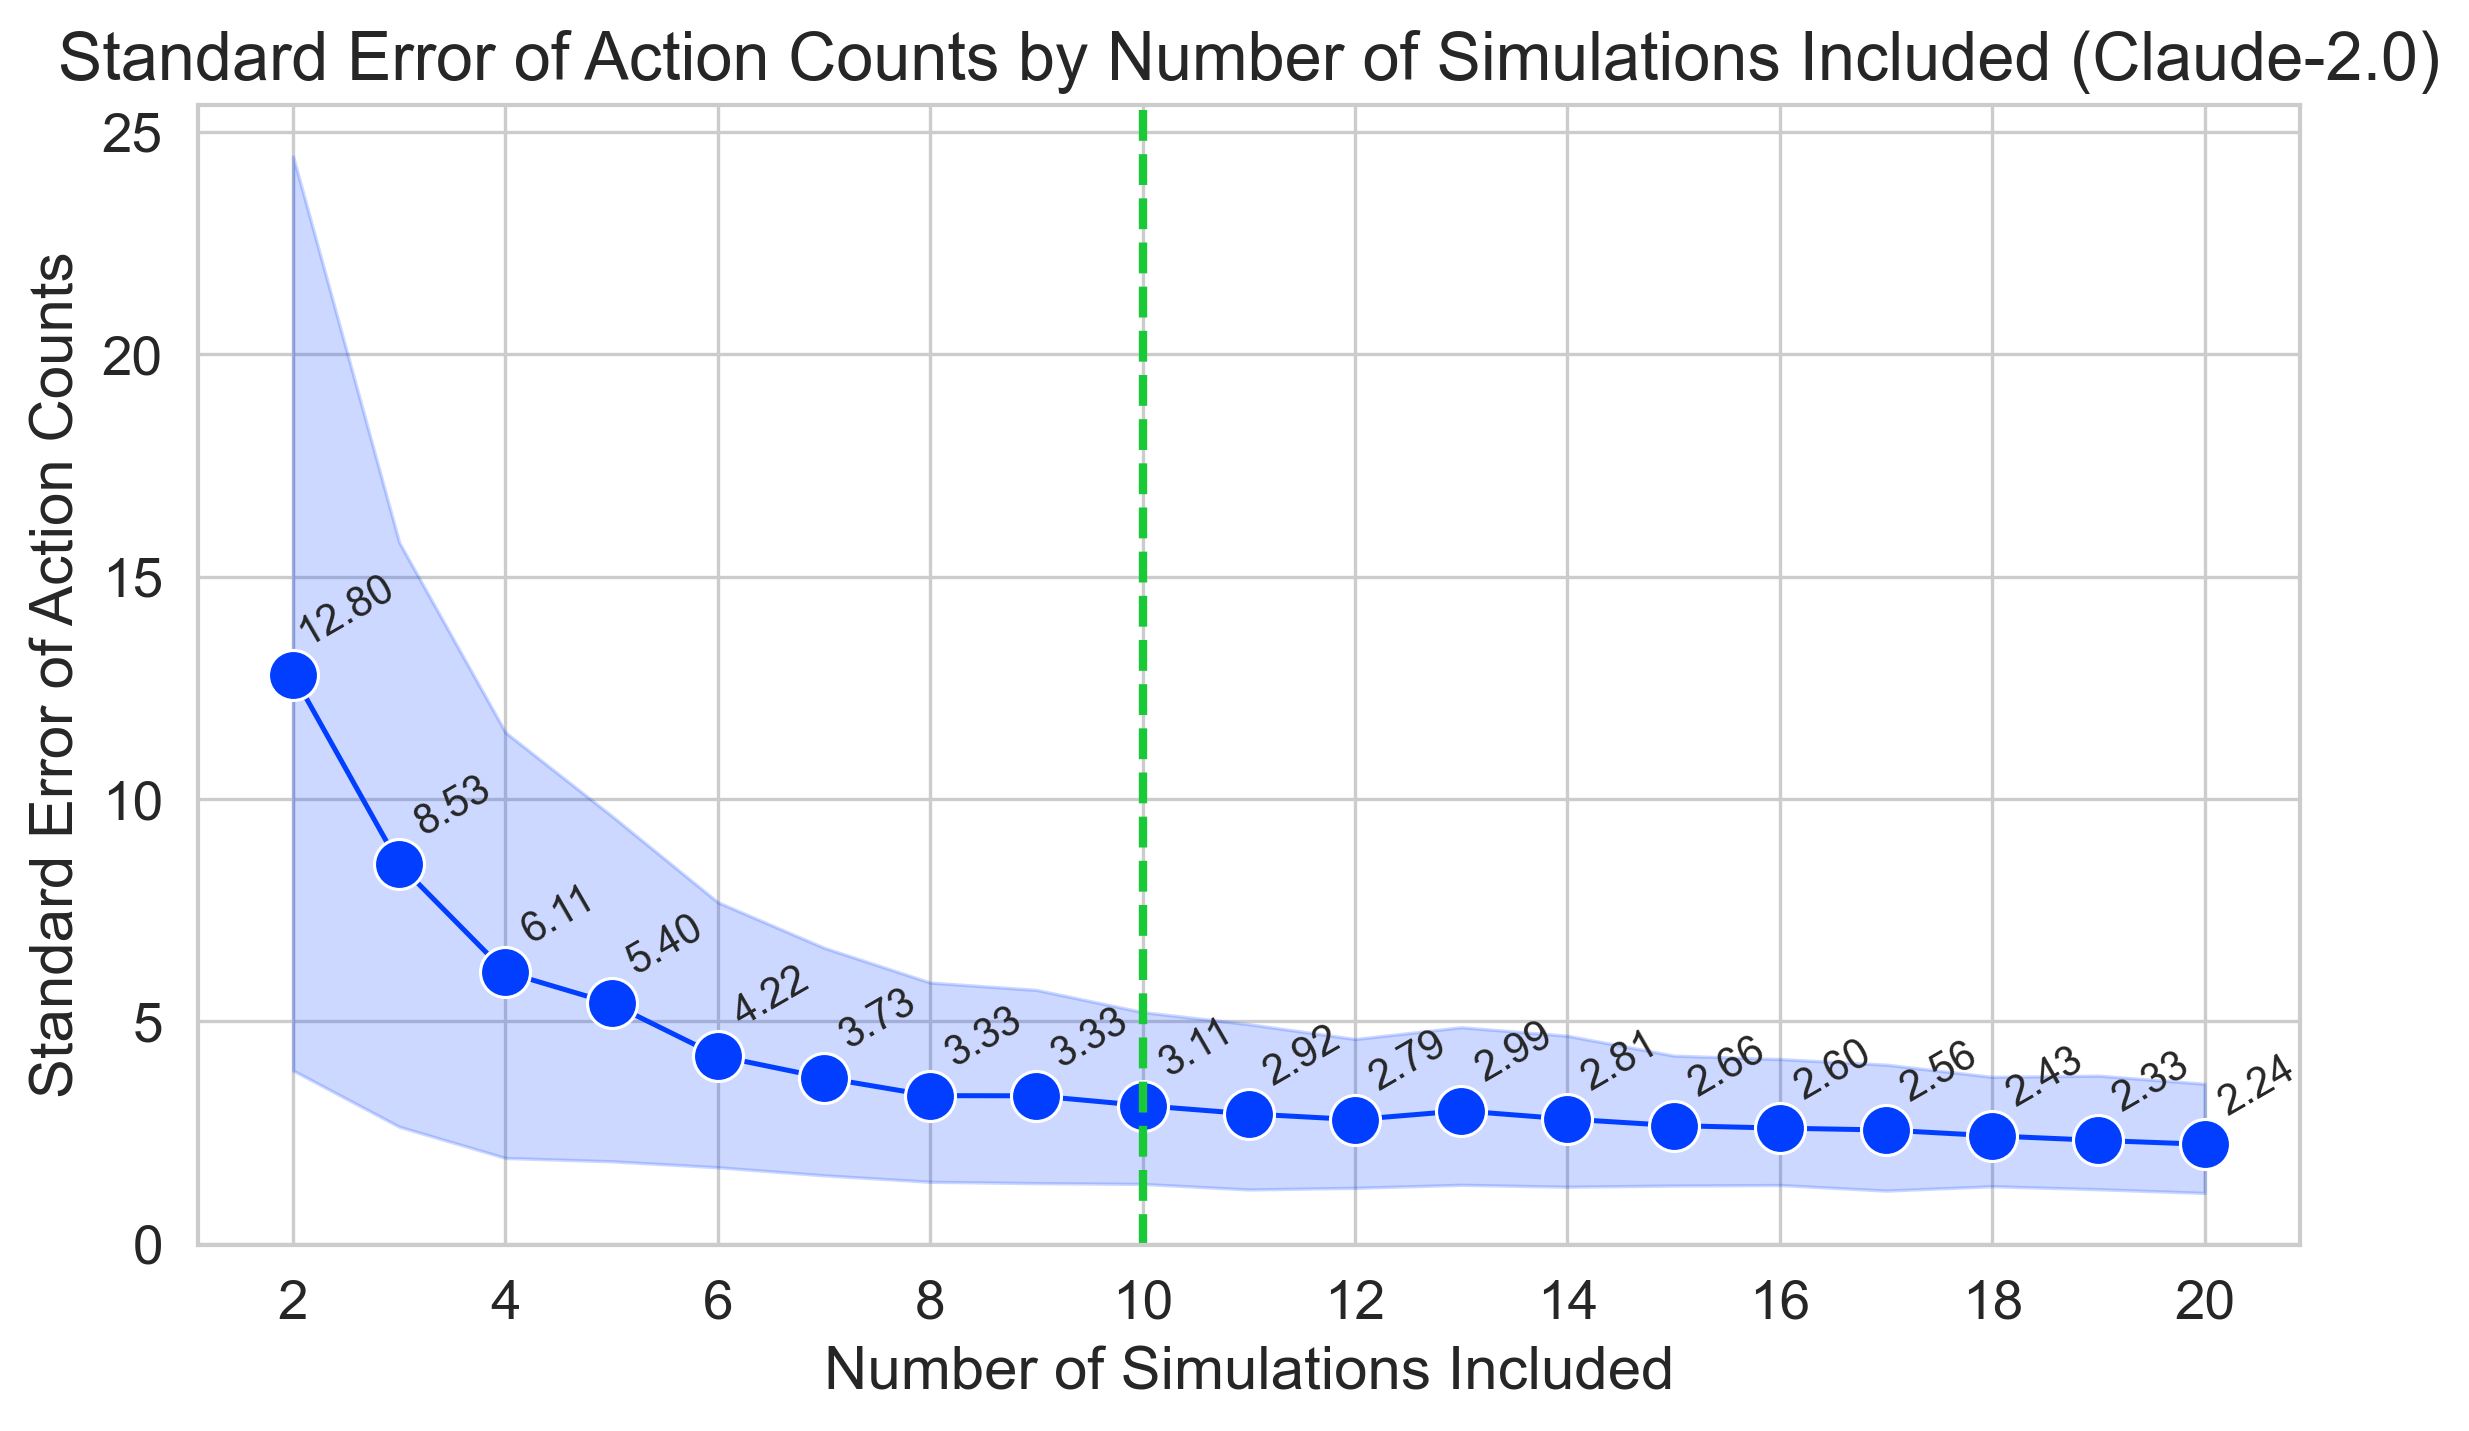
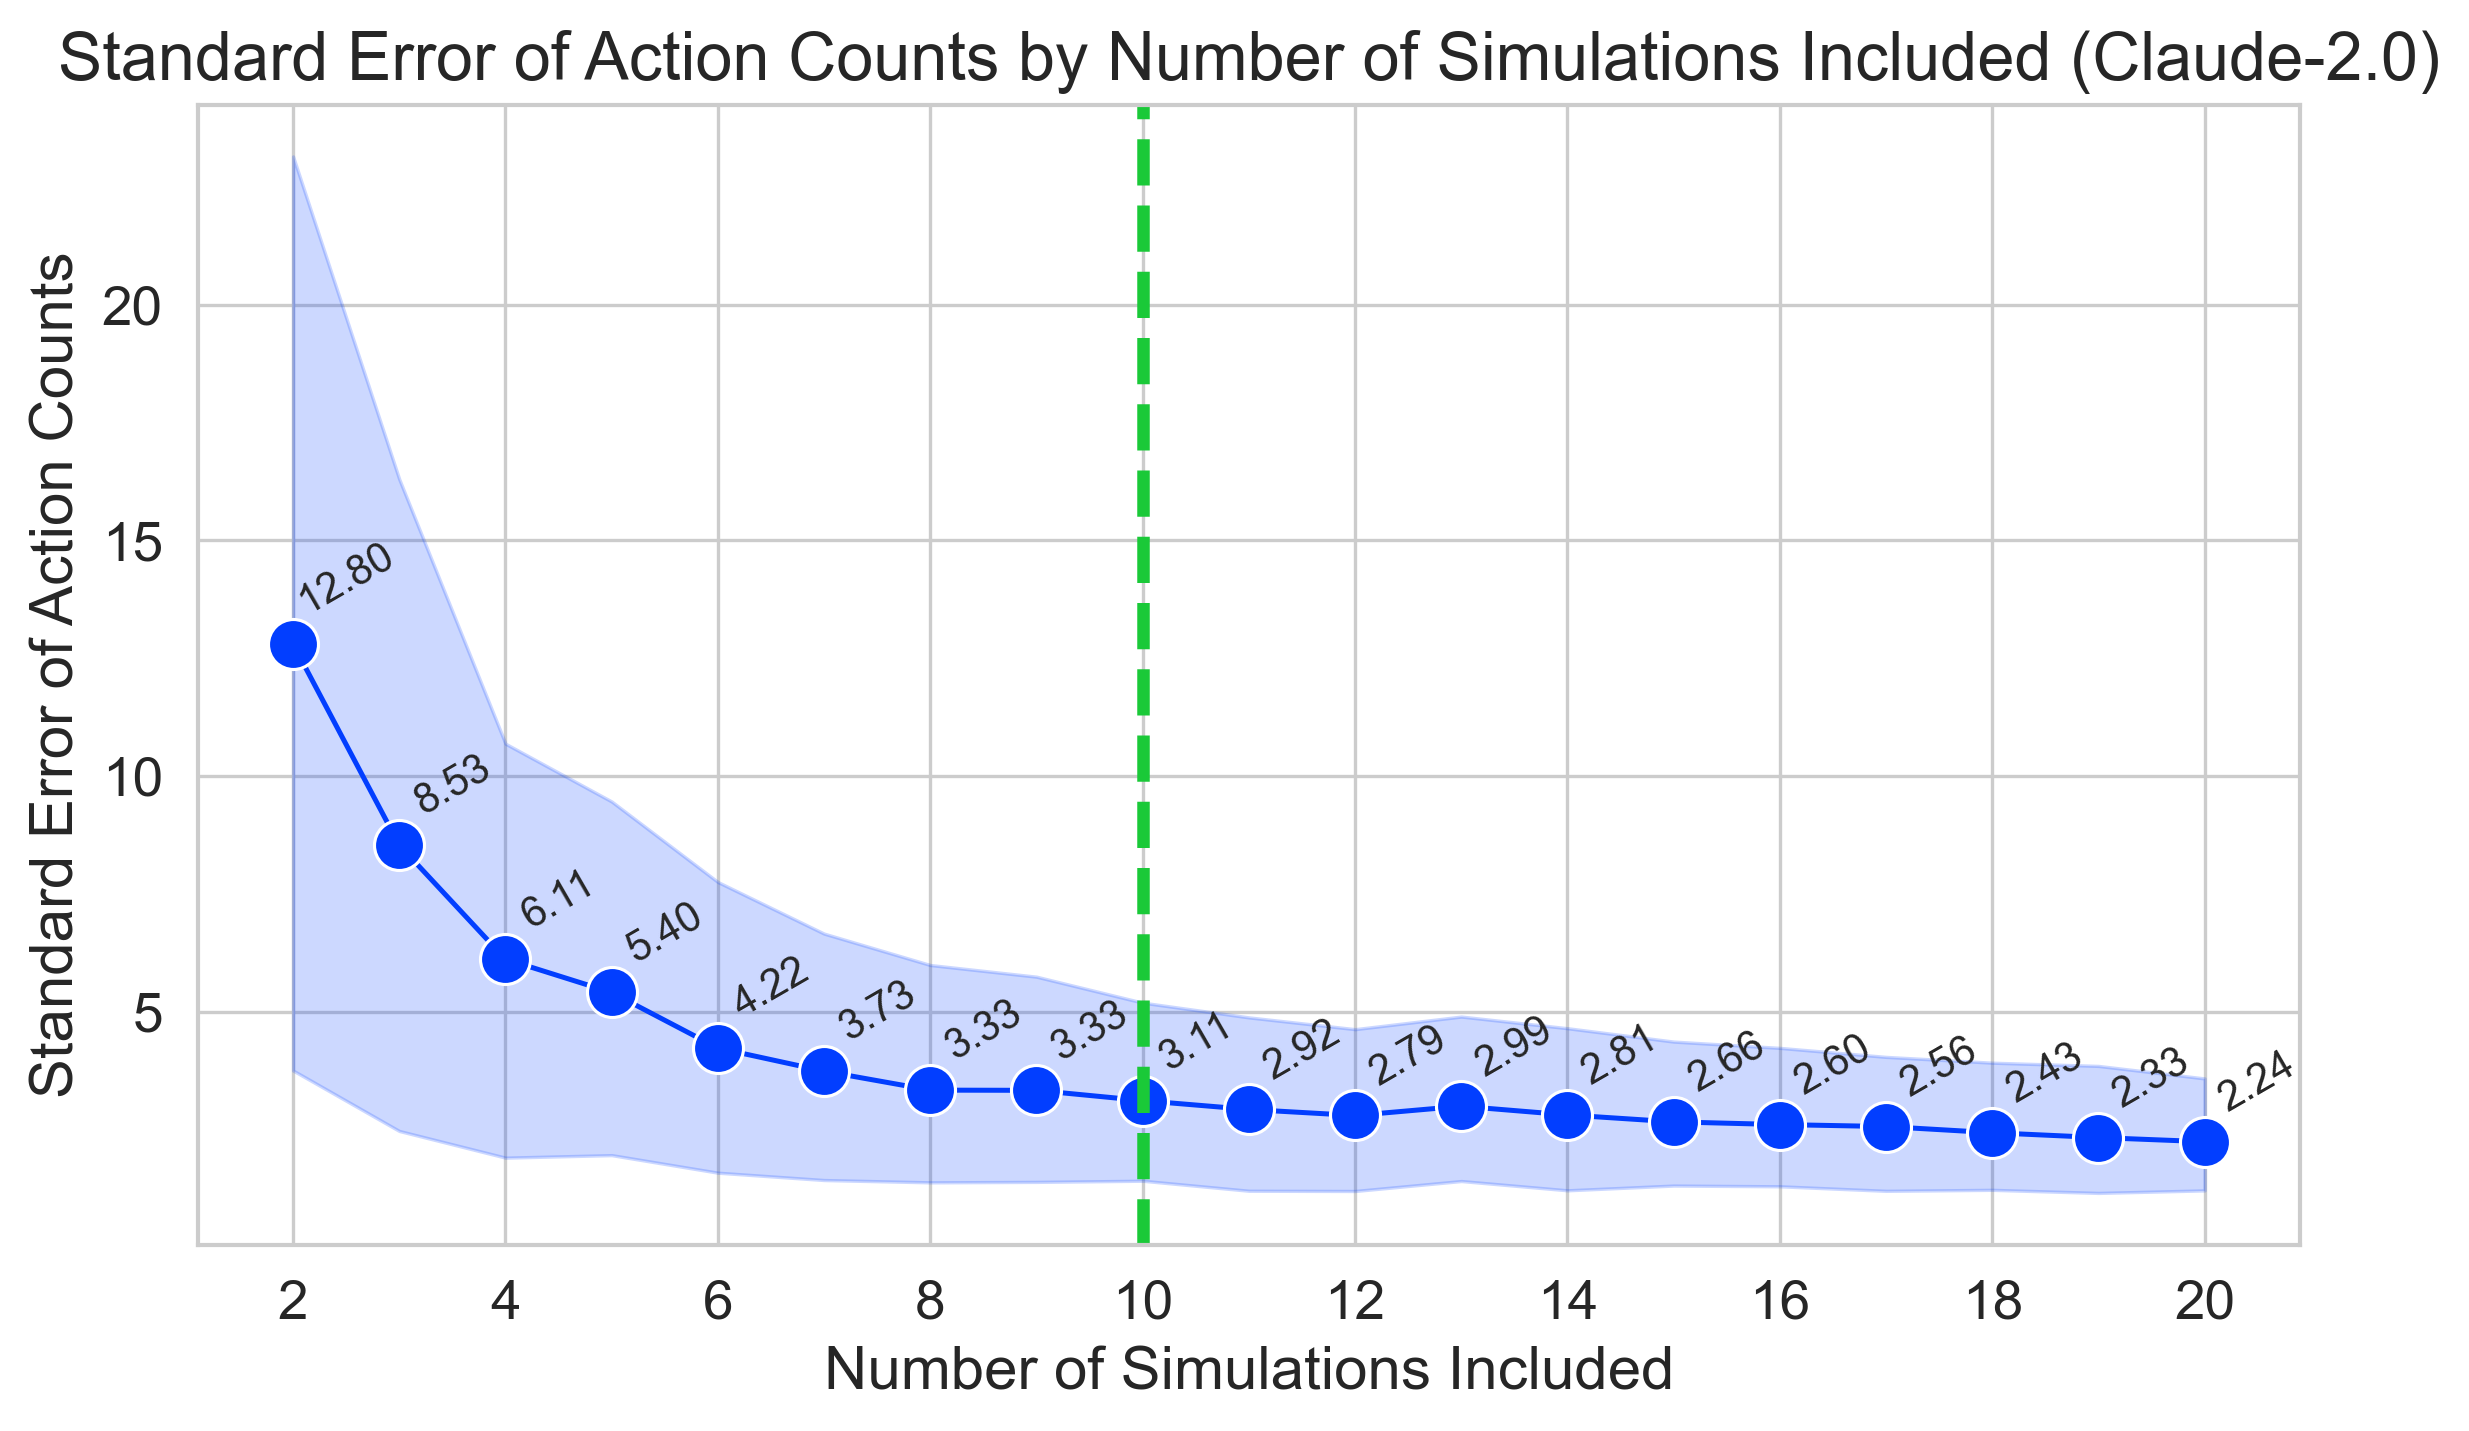
Thicker graph

diff --git a/charts/ablation_num_simulations.py b/charts/ablation_num_simulations.py
@@ -172,7 +172,7 @@ def main() -> None:
 
     # Add a vertical line at 10, the number of sims we use in experiments
     plt.axvline(
-        x=10, color=get_color_from_palette(2), linestyle="--", marker="", linewidth=2
+        x=10, color=get_color_from_palette(2), linestyle="--", marker="", linewidth=3
     )
 
     # Save the plot
